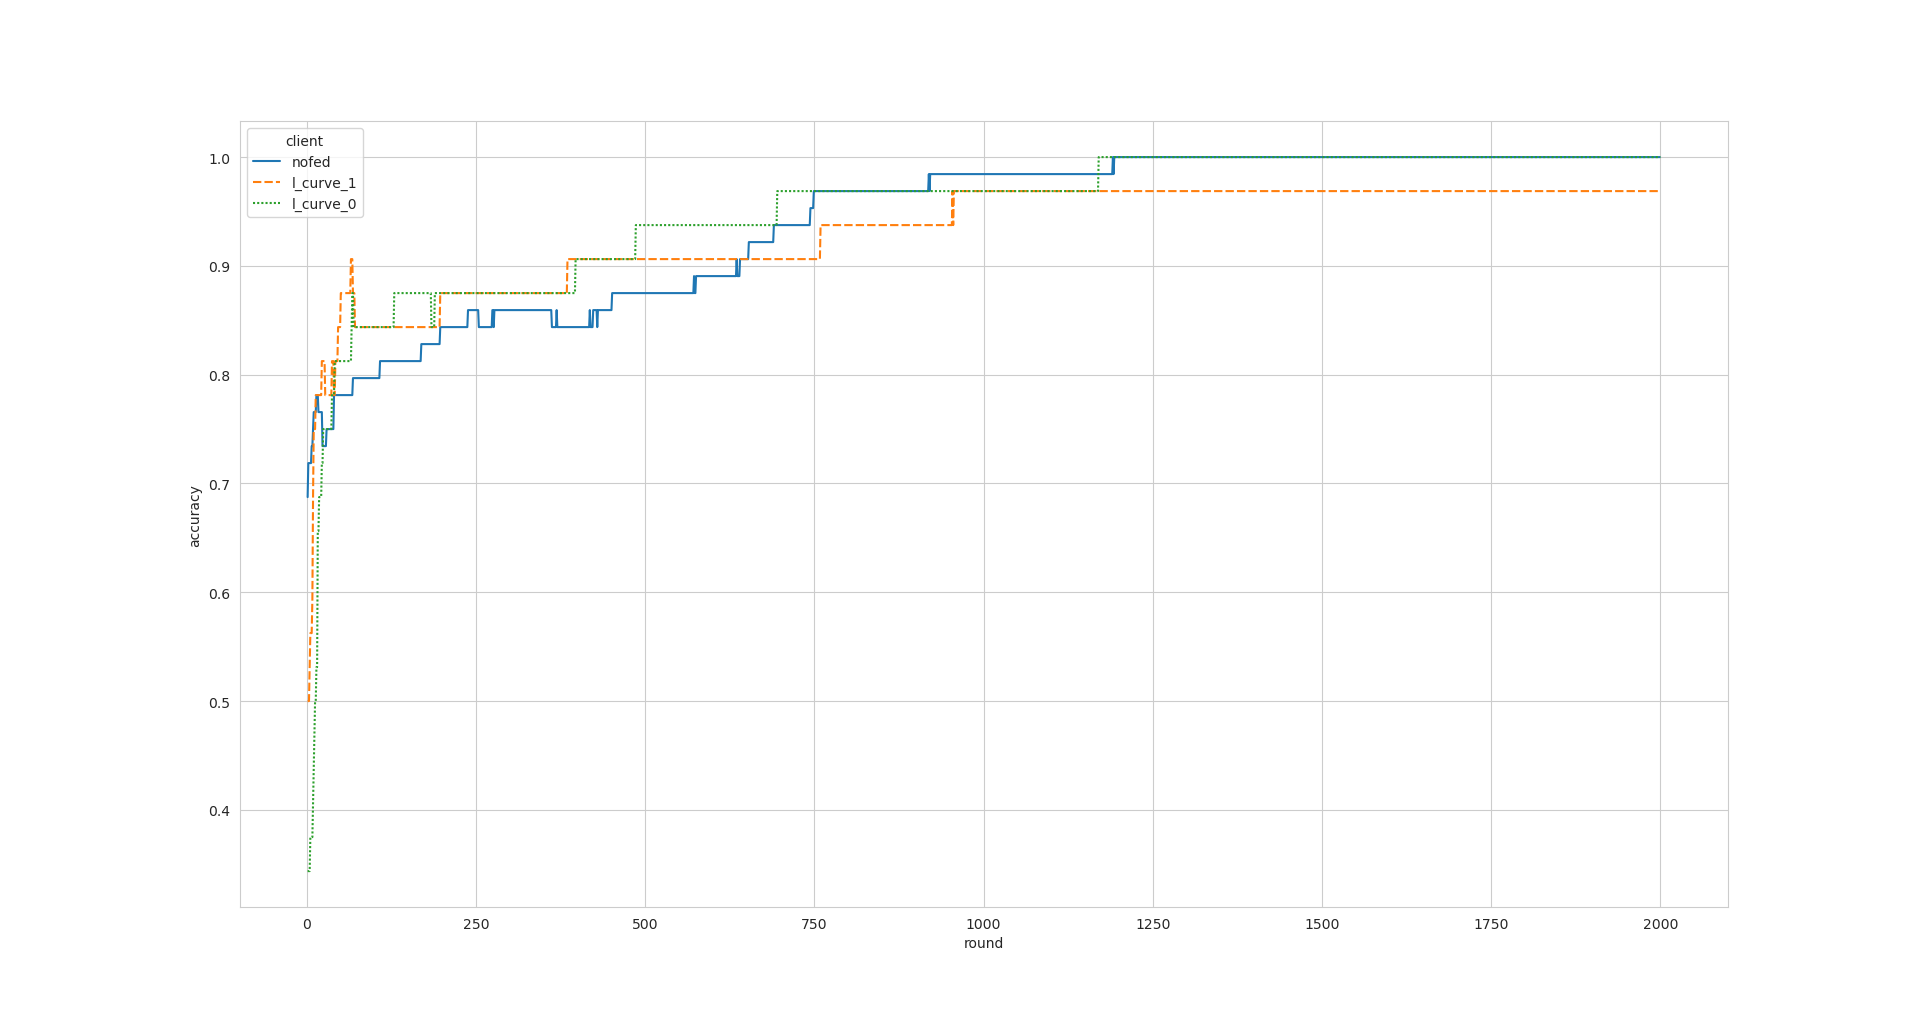
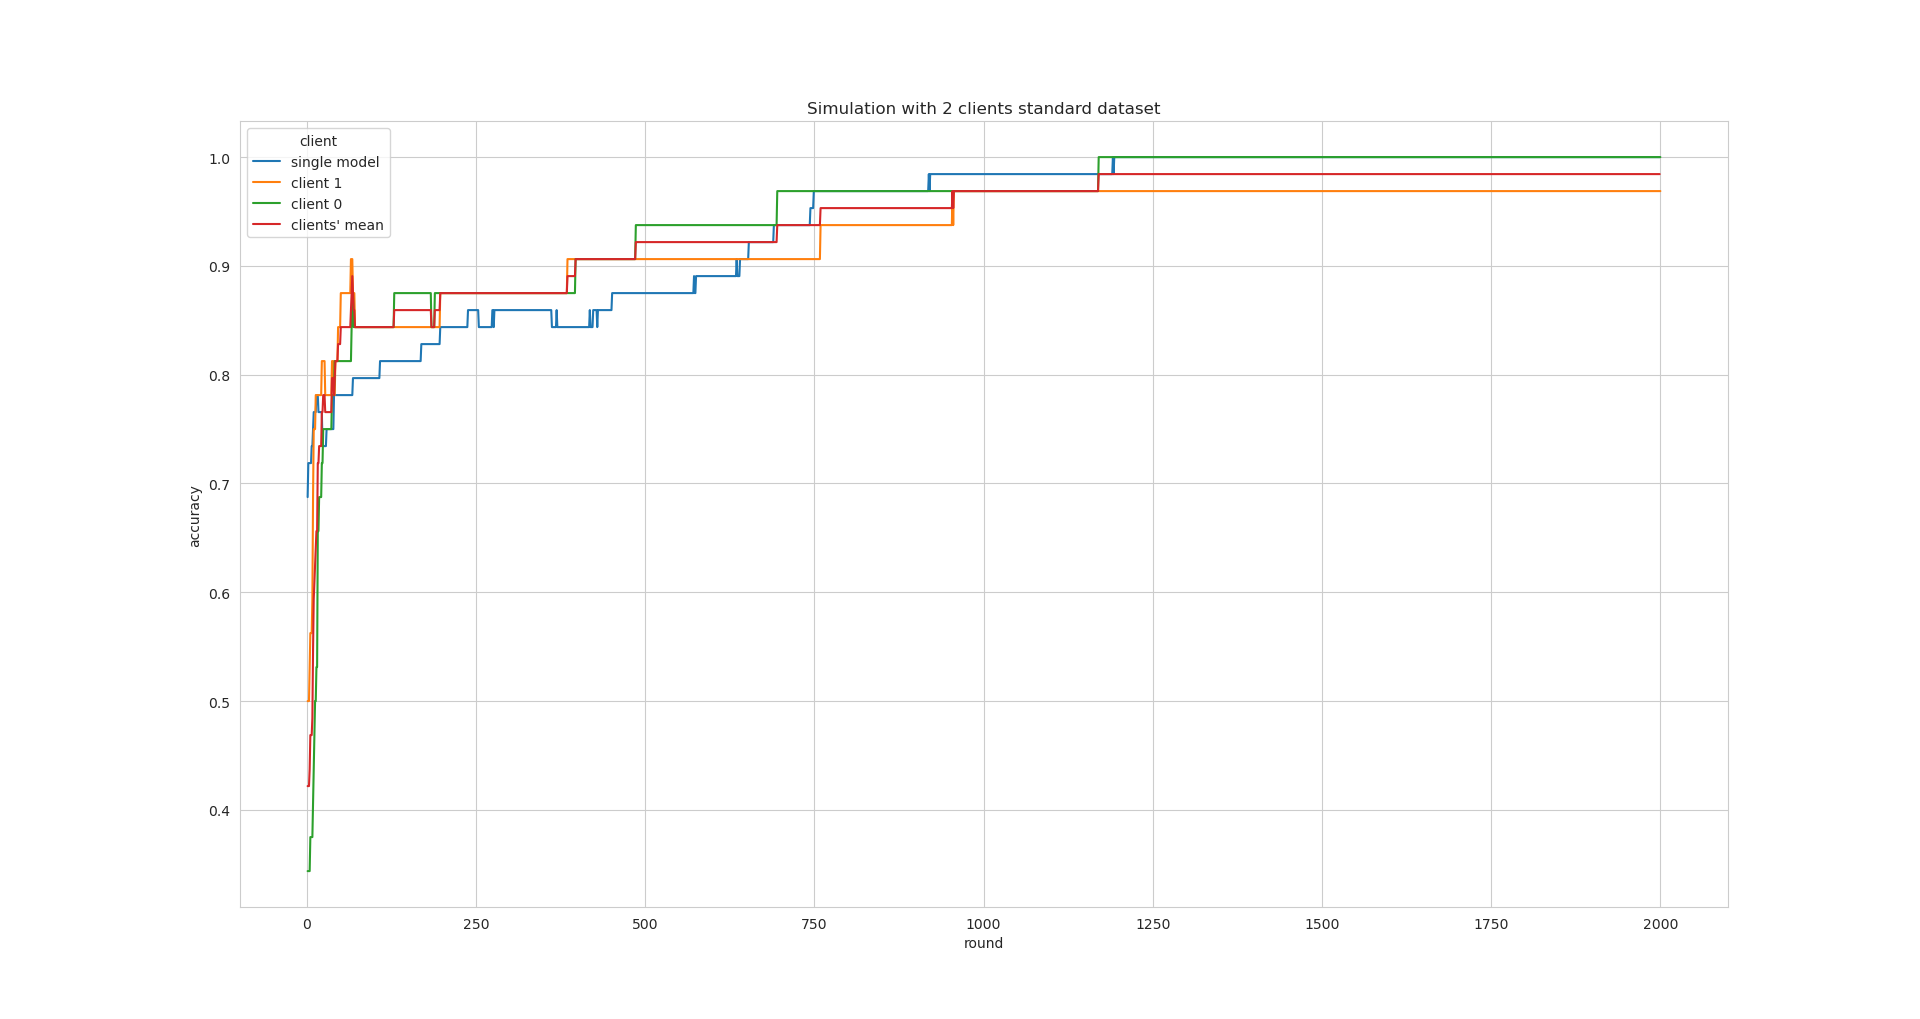
modified wrong plots, added some others

diff --git a/RESULTS/FL_2clients_same/README.md b/RESULTS/FL_2clients_same/README.md
@@ -5,18 +5,21 @@ a fixed noise to 0.1.
 After being shuffled, the dataset are divided 80-20 in train-test sets. 
 No cross validation has been used.
 
-accuracy.png and loss.png contains the plot of the learning curves. In the legend of
-these graphs there is the reference to the client to which they refer. With no_fed it
-is referred the analogous non federated simulation, performed using the same model and
-the same datasets (properly merged).
+accuracy.png and loss.png contains the plot of the learning curves. In the legend of 
+these graphs there is the reference to the client to which they refer, the mean value is 
+also plotted. With single model it is referred the analogous non federated simulation, 
+performed using the same model and the same datasets (properly merged).
+There are also the "reduced plots", under accuracy_red.png and loss_red.png with the 
+single model in comparison w.r.t. the average of the clients with the 95% C.I.
 
 The data_*.png files show the drawings of the dataset for a visual comparison.
 
-The *.dat files sgow the numbers from which the learning curves are plotted.
-
+The *.dat files show the numbers from which the learning curves are plotted.
 ### LEARNING CURVES
 ![](loss.png?raw=true)
 ![](accuracy.png?raw=true)
+![](loss_red.png?raw=true)
+![](accuracy_red.png?raw=true)
 
 ### DATASETS
 ![](data_client_nofed.png?raw=true)

diff --git a/RESULTS/FL_4clients_same/README.md b/RESULTS/FL_4clients_same/README.md
@@ -5,17 +5,21 @@ a fixed noise to 0.1.
 After being shuffled, the dataset are divided 80-20 in train-test sets. 
 No cross validation has been used.
 
-accuracy.png and loss.png contains the plot of the learning curves. In the legend of
-these graphs there is the reference to the client to which they refer. With no_fed it
-is referred the analogous non federated simulation, performed using the same model and
-the same datasets (properly merged).
+accuracy.png and loss.png contains the plot of the learning curves. In the legend of 
+these graphs there is the reference to the client to which they refer, the mean value is 
+also plotted. With single model it is referred the analogous non federated simulation, 
+performed using the same model and the same datasets (properly merged).
+There are also the "reduced plots", under accuracy_red.png and loss_red.png with the 
+single model in comparison w.r.t. the average of the clients with the 95% C.I.
 
 The data_*.png files show the drawings of the dataset for a visual comparison.
 
-The *.dat files sgow the numbers from which the learning curves are plotted.
+The *.dat files show the numbers from which the learning curves are plotted.
 ### LEARNING CURVES
 ![](loss.png?raw=true)
 ![](accuracy.png?raw=true)
+![](loss_red.png?raw=true)
+![](accuracy_red.png?raw=true)
 
 ### DATASETS
 ![](data_client_nofed.png?raw=true)

diff --git a/RESULTS/FL_8clients_same/README.md b/RESULTS/FL_8clients_same/README.md
@@ -5,17 +5,21 @@ a fixed noise to 0.1.
 After being shuffled, the dataset are divided 80-20 in train-test sets. 
 No cross validation has been used.
 
-accuracy.png and loss.png contains the plot of the learning curves. In the legend of
-these graphs there is the reference to the client to which they refer. With no_fed it
-is referred the analogous non federated simulation, performed using the same model and
-the same datasets (properly merged).
+accuracy.png and loss.png contains the plot of the learning curves. In the legend of 
+these graphs there is the reference to the client to which they refer, the mean value is 
+also plotted. With single model it is referred the analogous non federated simulation, 
+performed using the same model and the same datasets (properly merged).
+There are also the "reduced plots", under accuracy_red.png and loss_red.png with the 
+single model in comparison w.r.t. the average of the clients with the 95% C.I.
 
 The data_*.png files show the drawings of the dataset for a visual comparison.
 
-The *.dat files sgow the numbers from which the learning curves are plotted.
+The *.dat files show the numbers from which the learning curves are plotted.
 ### LEARNING CURVES
 ![](loss.png?raw=true)
 ![](accuracy.png?raw=true)
+![](loss_red.png?raw=true)
+![](accuracy_red.png?raw=true)
 
 ### DATASETS
 ![](data_client_nofed.png?raw=true)

diff --git a/RESULTS/FL_2clients_tr/README.md b/RESULTS/FL_2clients_tr/README.md
@@ -7,10 +7,12 @@ and vertically by a value dy&isin;[-0.1 ; 0.1].
 After being shuffled, the dataset are divided 80-20 in train-test sets.
 No cross validation has been used.
 
-accuracy.png and loss.png contains the plot of the learning curves. In the legend of
-these graphs there is the reference to the client to which they refer. With no_fed it
-is referred the analogous non federated simulation, performed using the same model and
-the same datasets (properly merged).
+accuracy.png and loss.png contains the plot of the learning curves. In the legend of 
+these graphs there is the reference to the client to which they refer, the mean value is 
+also plotted. With single model it is referred the analogous non federated simulation, 
+performed using the same model and the same datasets (properly merged).
+There are also the "reduced plots", under accuracy_red.png and loss_red.png with the 
+single model in comparison w.r.t. the average of the clients with the 95% C.I.
 
 The data_*.png files show the drawings of the dataset for a visual comparison.
 
@@ -18,6 +20,8 @@ The *.dat files show the numbers from which the learning curves are plotted.
 ### LEARNING CURVES
 ![](loss.png?raw=true)
 ![](accuracy.png?raw=true)
+![](loss_red.png?raw=true)
+![](accuracy_red.png?raw=true)
 
 ### DATASETS
 ![](data_client_nofed.png?raw=true)

diff --git a/RESULTS/FL_4clients_tr/README.md b/RESULTS/FL_4clients_tr/README.md
@@ -7,10 +7,12 @@ and vertically by a value dy&isin;[-0.1 ; 0.1].
 After being shuffled, the dataset are divided 80-20 in train-test sets.
 No cross validation has been used.
 
-accuracy.png and loss.png contains the plot of the learning curves. In the legend of
-these graphs there is the reference to the client to which they refer. With no_fed it
-is referred the analogous non federated simulation, performed using the same model and
-the same datasets (properly merged).
+accuracy.png and loss.png contains the plot of the learning curves. In the legend of 
+these graphs there is the reference to the client to which they refer, the mean value is 
+also plotted. With single model it is referred the analogous non federated simulation, 
+performed using the same model and the same datasets (properly merged).
+There are also the "reduced plots", under accuracy_red.png and loss_red.png with the 
+single model in comparison w.r.t. the average of the clients with the 95% C.I.
 
 The data_*.png files show the drawings of the dataset for a visual comparison.
 
@@ -18,6 +20,8 @@ The *.dat files show the numbers from which the learning curves are plotted.
 ### LEARNING CURVES
 ![](loss.png?raw=true)
 ![](accuracy.png?raw=true)
+![](loss_red.png?raw=true)
+![](accuracy_red.png?raw=true)
 
 ### DATASETS
 ![](data_client_nofed.png?raw=true)

diff --git a/RESULTS/FL_8clients_tr/README.md b/RESULTS/FL_8clients_tr/README.md
@@ -7,10 +7,12 @@ and vertically by a value dy&isin;[-0.1 ; 0.1].
 After being shuffled, the dataset are divided 80-20 in train-test sets.
 No cross validation has been used.
 
-accuracy.png and loss.png contains the plot of the learning curves. In the legend of
-these graphs there is the reference to the client to which they refer. With no_fed it
-is referred the analogous non federated simulation, performed using the same model and
-the same datasets (properly merged).
+accuracy.png and loss.png contains the plot of the learning curves. In the legend of 
+these graphs there is the reference to the client to which they refer, the mean value is 
+also plotted. With single model it is referred the analogous non federated simulation, 
+performed using the same model and the same datasets (properly merged).
+There are also the "reduced plots", under accuracy_red.png and loss_red.png with the 
+single model in comparison w.r.t. the average of the clients with the 95% C.I.
 
 The data_*.png files show the drawings of the dataset for a visual comparison.
 
@@ -18,6 +20,8 @@ The *.dat files show the numbers from which the learning curves are plotted.
 ### LEARNING CURVES
 ![](loss.png?raw=true)
 ![](accuracy.png?raw=true)
+![](loss_red.png?raw=true)
+![](accuracy_red.png?raw=true)
 
 ### DATASETS
 ![](data_client_nofed.png?raw=true)

diff --git a/RESULTS/FL_2clients_rot/README.md b/RESULTS/FL_2clients_rot/README.md
@@ -7,9 +7,11 @@ After being shuffled, the dataset are divided 80-20 in train-test sets.
 No cross validation has been used. 
 
 accuracy.png and loss.png contains the plot of the learning curves. In the legend of 
-these graphs there is the reference to the client to which they refer. With no_fed it 
-is referred the analogous non federated simulation, performed using the same model and 
-the same datasets (properly merged).
+these graphs there is the reference to the client to which they refer, the mean value is 
+also plotted. With single model it is referred the analogous non federated simulation, 
+performed using the same model and the same datasets (properly merged).
+There are also the "reduced plots", under accuracy_red.png and loss_red.png with the 
+single model in comparison w.r.t. the average of the clients with the 95% C.I.
 
 The data_*.png files show the drawings of the dataset for a visual comparison.
 
@@ -17,6 +19,8 @@ The *.dat files show the numbers from which the learning curves are plotted.
 ### LEARNING CURVES
 ![](loss.png?raw=true)
 ![](accuracy.png?raw=true)
+![](loss_red.png?raw=true)
+![](accuracy_red.png?raw=true)
 
 ### DATASETS
 ![](data_client_nofed.png?raw=true)

diff --git a/RESULTS/FL_4clients_rot/README.md b/RESULTS/FL_4clients_rot/README.md
@@ -7,9 +7,11 @@ After being shuffled, the dataset are divided 80-20 in train-test sets.
 No cross validation has been used. 
 
 accuracy.png and loss.png contains the plot of the learning curves. In the legend of 
-these graphs there is the reference to the client to which they refer. With no_fed it 
-is referred the analogous non federated simulation, performed using the same model and 
-the same datasets (properly merged).
+these graphs there is the reference to the client to which they refer, the mean value is 
+also plotted. With single model it is referred the analogous non federated simulation, 
+performed using the same model and the same datasets (properly merged).
+There are also the "reduced plots", under accuracy_red.png and loss_red.png with the 
+single model in comparison w.r.t. the average of the clients with the 95% C.I.
 
 The data_*.png files show the drawings of the dataset for a visual comparison.
 
@@ -17,6 +19,8 @@ The *.dat files show the numbers from which the learning curves are plotted.
 ### LEARNING CURVES
 ![](loss.png?raw=true)
 ![](accuracy.png?raw=true)
+![](loss_red.png?raw=true)
+![](accuracy_red.png?raw=true)
 
 ### DATASETS
 ![](data_client_nofed.png?raw=true)

diff --git a/RESULTS/FL_8clients_rot/README.md b/RESULTS/FL_8clients_rot/README.md
@@ -7,9 +7,11 @@ After being shuffled, the dataset are divided 80-20 in train-test sets.
 No cross validation has been used. 
 
 accuracy.png and loss.png contains the plot of the learning curves. In the legend of 
-these graphs there is the reference to the client to which they refer. With no_fed it 
-is referred the analogous non federated simulation, performed using the same model and 
-the same datasets (properly merged).
+these graphs there is the reference to the client to which they refer, the mean value is 
+also plotted. With single model it is referred the analogous non federated simulation, 
+performed using the same model and the same datasets (properly merged).
+There are also the "reduced plots", under accuracy_red.png and loss_red.png with the 
+single model in comparison w.r.t. the average of the clients with the 95% C.I.
 
 The data_*.png files show the drawings of the dataset for a visual comparison.
 
@@ -17,6 +19,8 @@ The *.dat files show the numbers from which the learning curves are plotted.
 ### LEARNING CURVES
 ![](loss.png?raw=true)
 ![](accuracy.png?raw=true)
+![](loss_red.png?raw=true)
+![](accuracy_red.png?raw=true)
 
 ### DATASETS
 ![](data_client_nofed.png?raw=true)
